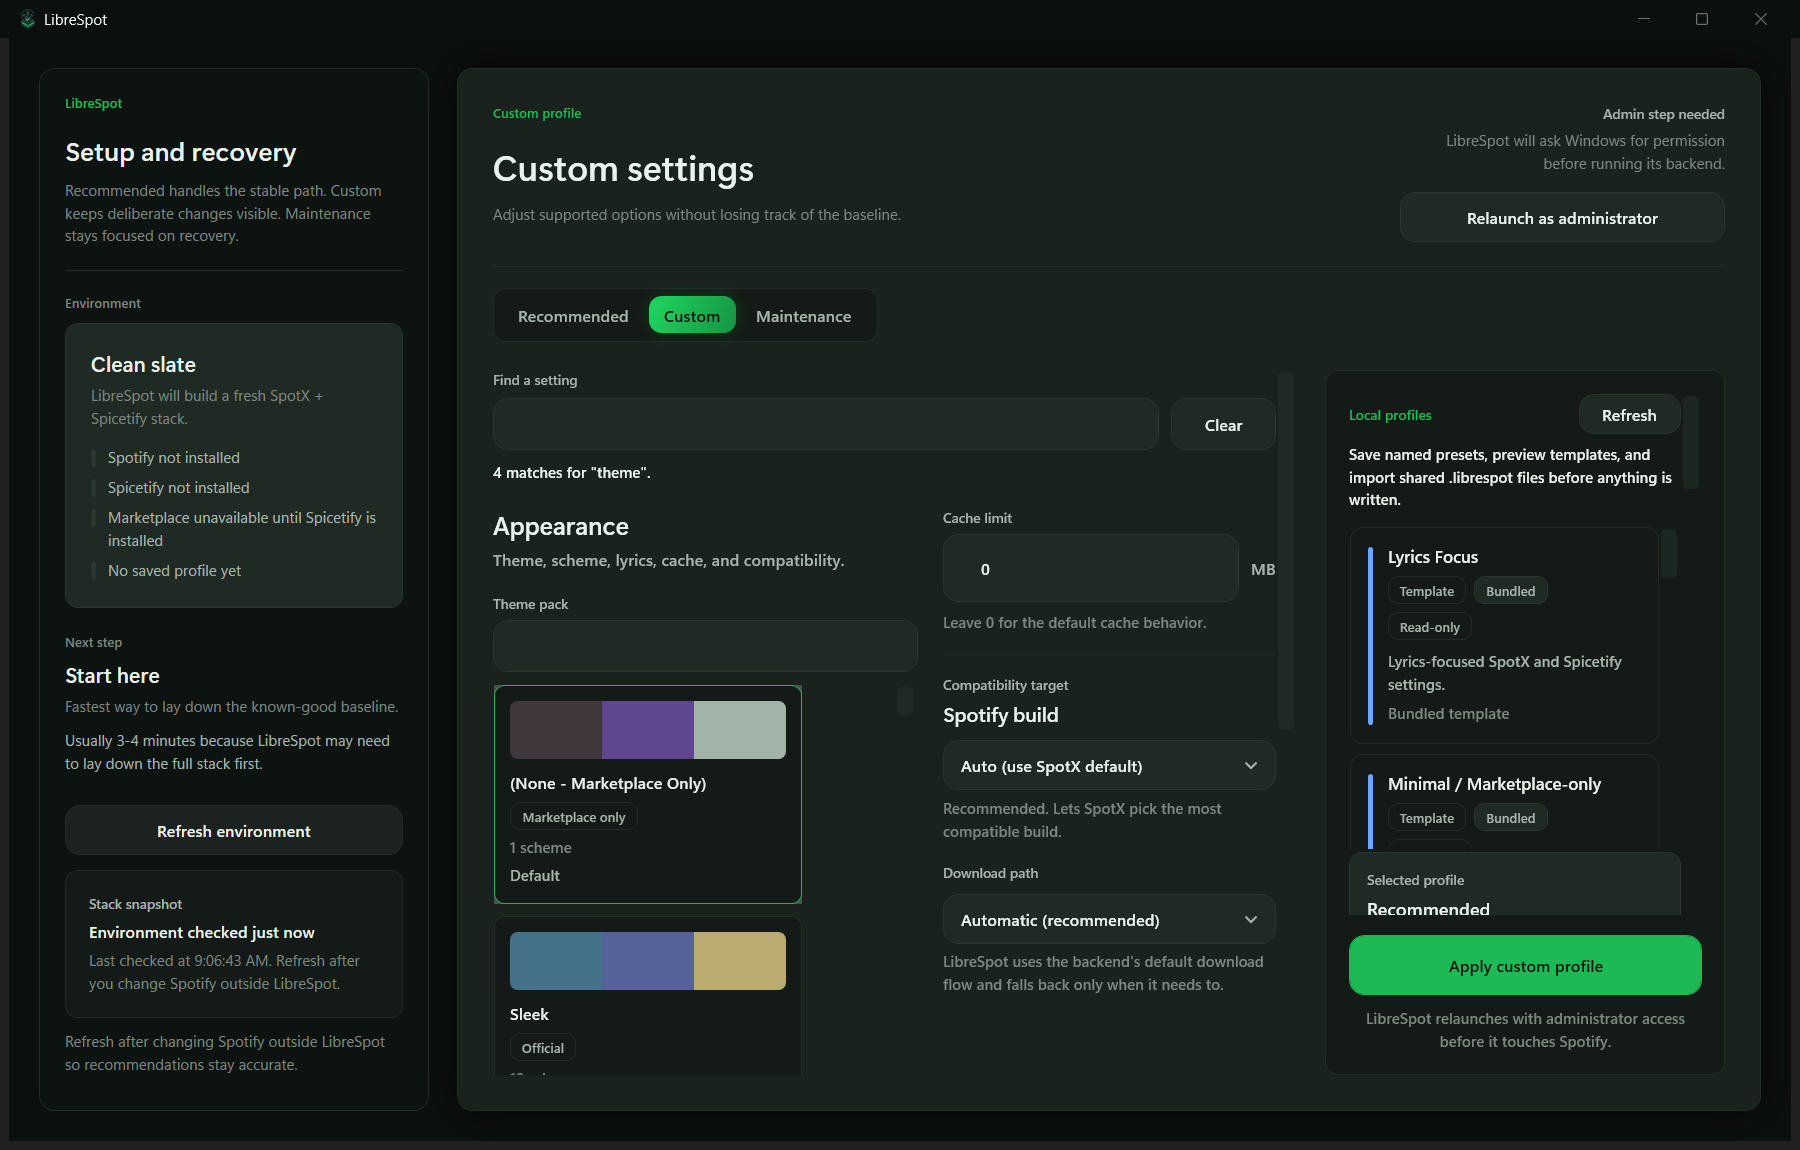
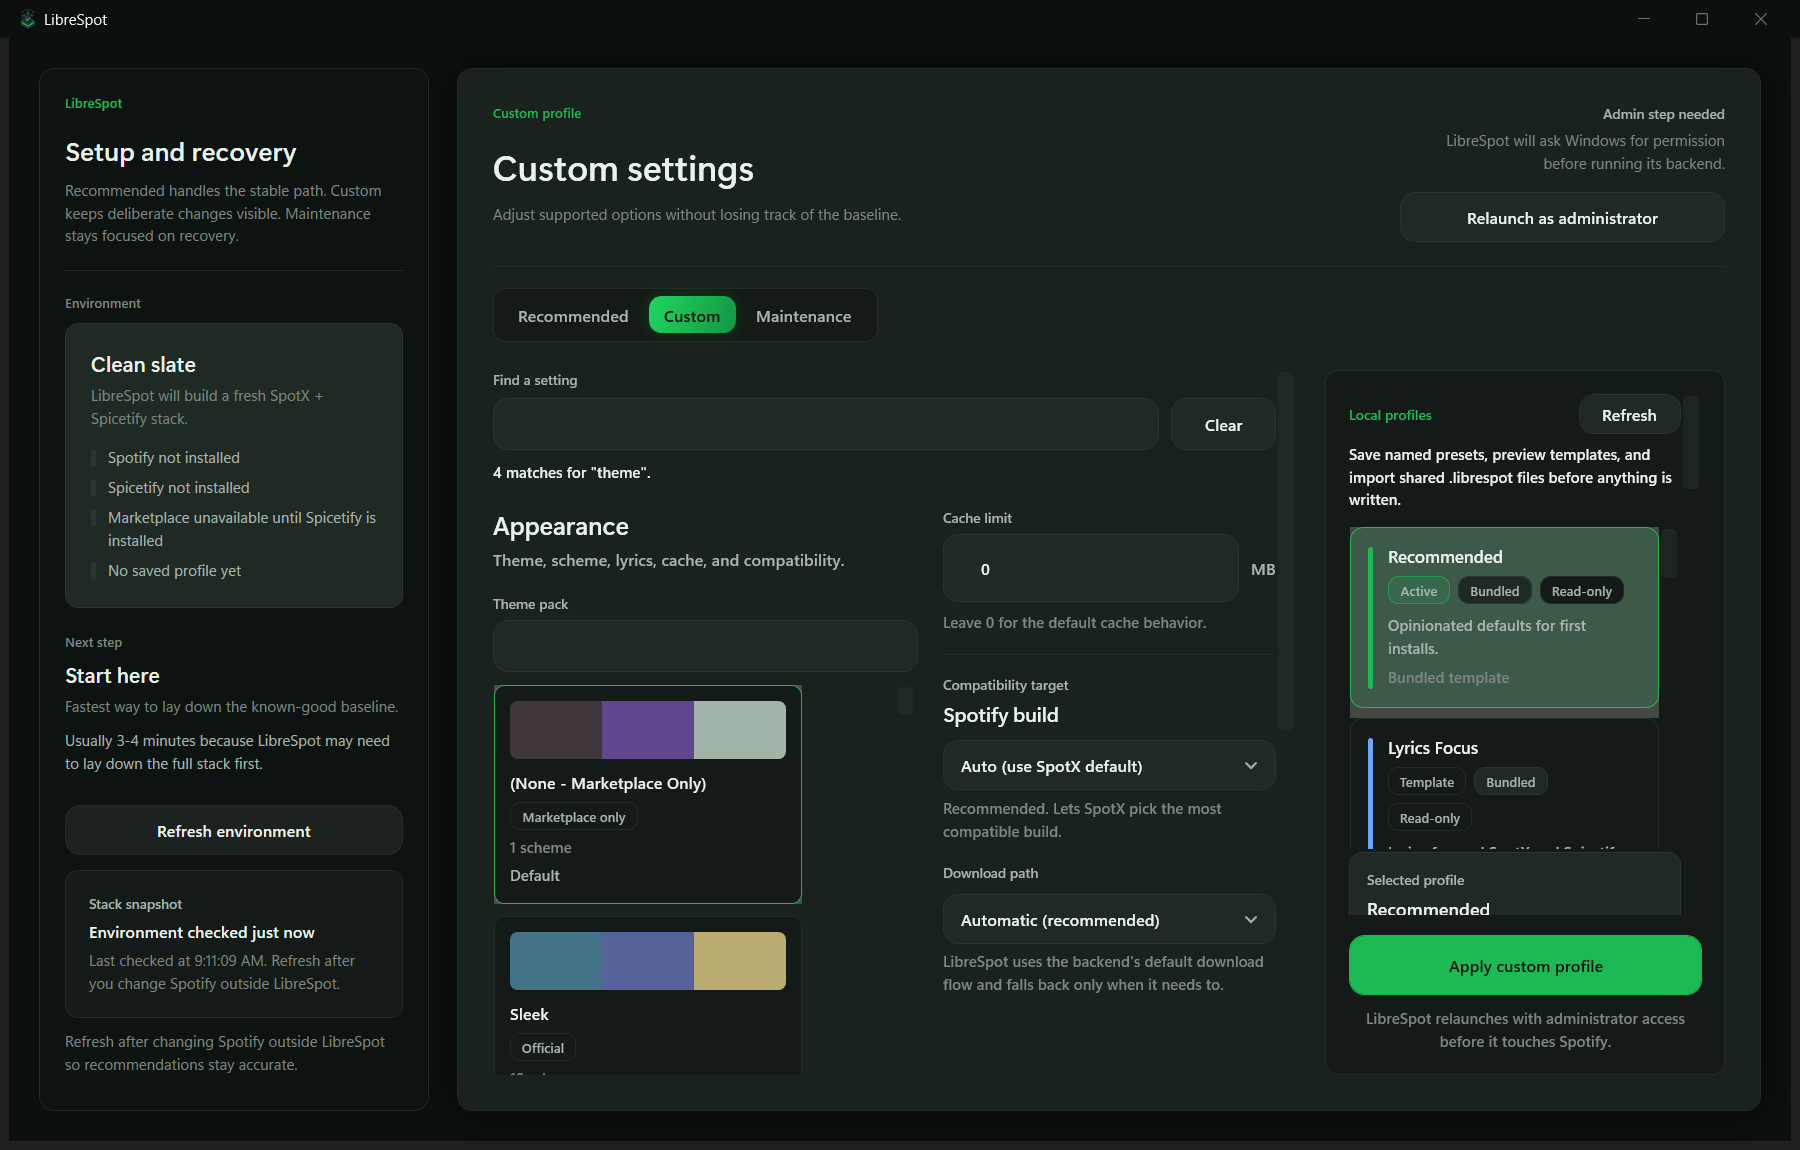
style: pin active profiles first

Changed region(s): [[0.7467, 0.4565, 0.9333, 0.7304], [0.1244, 0.8217, 0.1867, 0.8522]]

diff --git a/src/LibreSpot.Desktop/ViewModels/MainViewModel.cs b/src/LibreSpot.Desktop/ViewModels/MainViewModel.cs
@@ -2058,8 +2058,13 @@ public sealed class MainViewModel : ObservableObject, IDisposable
     {
         var selectedId = preferredProfileId ?? SelectedLocalProfile?.Id;
         var summaries = await _profileService.GetProfilesAsync();
+        var orderedSummaries = summaries
+            .OrderByDescending(summary => summary.IsActive)
+            .ThenBy(summary => summary.IsBuiltIn ? 0 : 1)
+            .ThenBy(summary => summary.Name, StringComparer.CurrentCultureIgnoreCase)
+            .ToArray();
         LocalProfiles.Clear();
-        foreach (var summary in summaries)
+        foreach (var summary in orderedSummaries)
         {
             LocalProfiles.Add(new LocalProfileCardViewModel(summary));
         }
@@ -2071,7 +2076,7 @@ public sealed class MainViewModel : ObservableObject, IDisposable
 
         ProfileOperationStatus = LocalProfiles.Count == 0
             ? "No profiles are available yet. Save the current Custom selections to create one."
-            : $"{LocalProfiles.Count} local profile choices ready. Preview before applying if you want to inspect the settings first.";
+            : $"{LocalProfiles.Count} profile choices ready. Preview before applying if you want to inspect the settings first.";
         RaiseLocalProfileStateChanged();
     }
 

diff --git a/tests/LibreSpot.Desktop.Tests/MainViewModelMaintenanceTests.cs b/tests/LibreSpot.Desktop.Tests/MainViewModelMaintenanceTests.cs
@@ -241,6 +241,8 @@ public sealed class MainViewModelMaintenanceTests
             Assert.Contains(viewModel.LocalProfiles, profile => profile.IsBuiltIn && profile.Name == "Recommended");
             Assert.Contains(viewModel.LocalProfiles, profile => profile.IsBuiltIn && profile.Name == "Visual Theme");
             Assert.Contains(viewModel.LocalProfiles, profile => profile.Id == "recommended" && profile.IsActive);
+            Assert.True(viewModel.LocalProfiles[0].IsActive);
+            Assert.Contains("profile choices ready", viewModel.ProfileOperationStatus, StringComparison.OrdinalIgnoreCase);
 
             viewModel.SelectedLocalProfile = viewModel.LocalProfiles.Single(profile => profile.Id == "visual-theme");
             Assert.Contains("read-only", viewModel.ProfileSelectionHint, StringComparison.OrdinalIgnoreCase);

diff --git a/CHANGELOG.md b/CHANGELOG.md
@@ -42,6 +42,8 @@ All notable changes to LibreSpot will be documented in this file.
 - WPF Custom profile management now has clearer active/template/local card
   states, a refresh action, selected-profile guidance, live status feedback,
   and safer edit/import/export command grouping.
+- WPF local profiles now pin the active profile first and use broader profile
+  terminology when bundled templates are mixed with local presets.
 - Release-trust documentation now reflects the local-only release process:
   checksums, release manifests, SBOM output, and pending SignPath signing are
   documented as current evidence, while absent GitHub workflow/provenance